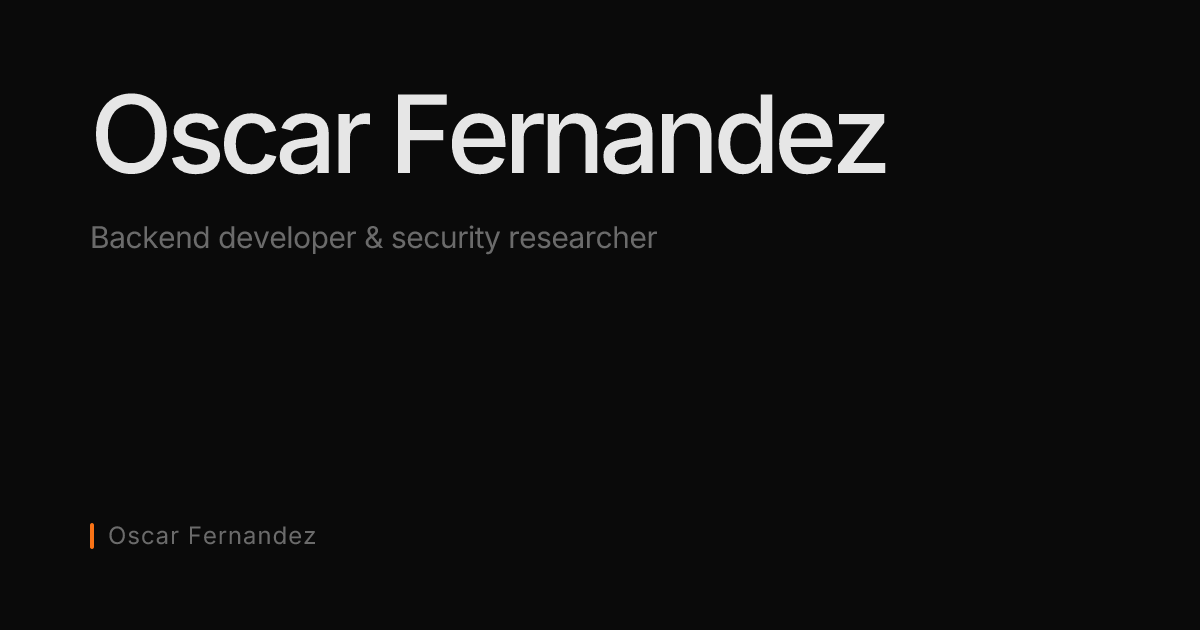
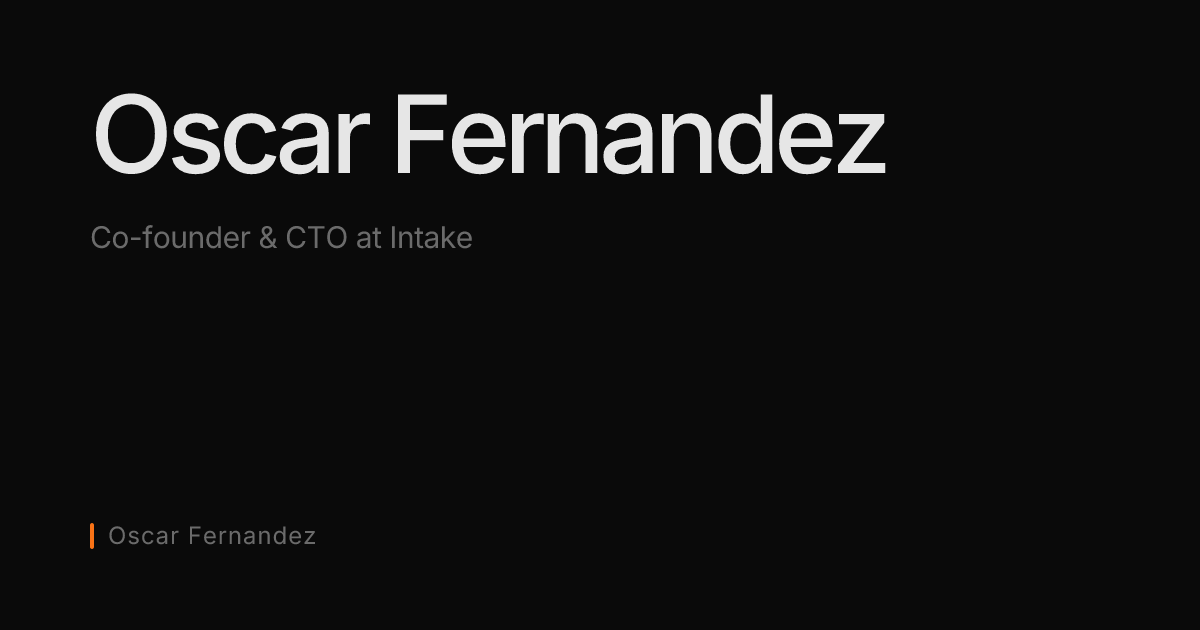
Update my role to CTO across the site and refresh the About page

Changed region(s): [[0.0617, 0.3619, 0.555, 0.3921]]

diff --git a/src/pages/rss.xml.ts b/src/pages/rss.xml.ts
@@ -7,7 +7,7 @@ export async function GET(context: APIContext) {
   return rss({
     title: "Oscar Fernandez",
     description:
-      "Backend developer & security researcher. Technical notes on backend systems, security research, and whatever I'm building.",
+      "Co-founder & CTO at Intake. Technical notes on backend systems, AI agents, Rust, security research, and whatever I'm building.",
     site: context.site!,
     items: posts
       .sort((a, b) => b.data.date.valueOf() - a.data.date.valueOf())

diff --git a/src/utils/schema.ts b/src/utils/schema.ts
@@ -20,7 +20,12 @@ export function personSchema() {
     name: "Oscar Fernandez",
     alternateName: "Tay",
     url: SITE,
-    jobTitle: "Backend Developer & Security Researcher",
+    jobTitle: "Co-Founder & CTO",
+    worksFor: {
+      "@type": "Organization",
+      name: "Intake",
+      url: "https://www.intake.es",
+    },
     address: {
       "@type": "PostalAddress",
       addressLocality: "Mataró",

diff --git a/src/content/about.md b/src/content/about.md
@@ -4,8 +4,8 @@ I got into programming the way most people probably shouldn't, cheating in FiveM
 
 That led me to hacking courses, pentesting and eventually to the realization that what I actually enjoy most is the other side. Designing systems, thinking through architecture, writing code that does what it's supposed to do and doesn't embarrass you six months later. Security gave me a way of thinking about software that most developers don't have at the start. I still use it.
 
-I'm currently Co-Founder and Head of Engineering at Intake, a startup inside [Lanzadera](https://lanzadera.es), Spain's main startup accelerator, while enrolled in two academic programs simultaneously. I took the opportunities as they came, and somehow this became my day to day.
+I'm currently Co-Founder and CTO at Intake, a startup inside [Lanzadera](https://lanzadera.es), Spain's main startup accelerator, while studying multiplatform app development and cybersecurity at the same time. I took the opportunities as they came, and somehow this became my day to day.
 
 Day to day I work with Python, FastAPI, MongoDB, Redis, and whatever else the problem requires. What I enjoy most is the thinking part, breaking down a problem, doing research, designing a solution that actually makes sense, and implementing it cleanly. What I enjoy least is inheriting code that was written without any of that. It exists everywhere and it's always someone else's fault.
 
-Currently I'm also learning Rust because I want to understand systems at a level where nothing is magic. Interested in Golang for similar reasons. At some point I'd like to contribute to something that other people actually use, open source, tools, whatever ends up mattering. If any of that sounds interesting, you know where to find me.
+These days I barely write code by hand. AI agents write most of it, and my part is [the judgment](/blog/code-is-cheap-judgment-is-not/): deciding what to build, how it fits together, and whether what comes out is actually right. I still want to understand systems at a level where nothing is magic, which is why I'm drawn to Rust and Golang. [ArdiQ](https://ardiq.bytay.dev) came from that: a task queue for Python with a Rust core that now runs every background job at Intake. If any of that sounds interesting, you know where to find me.
